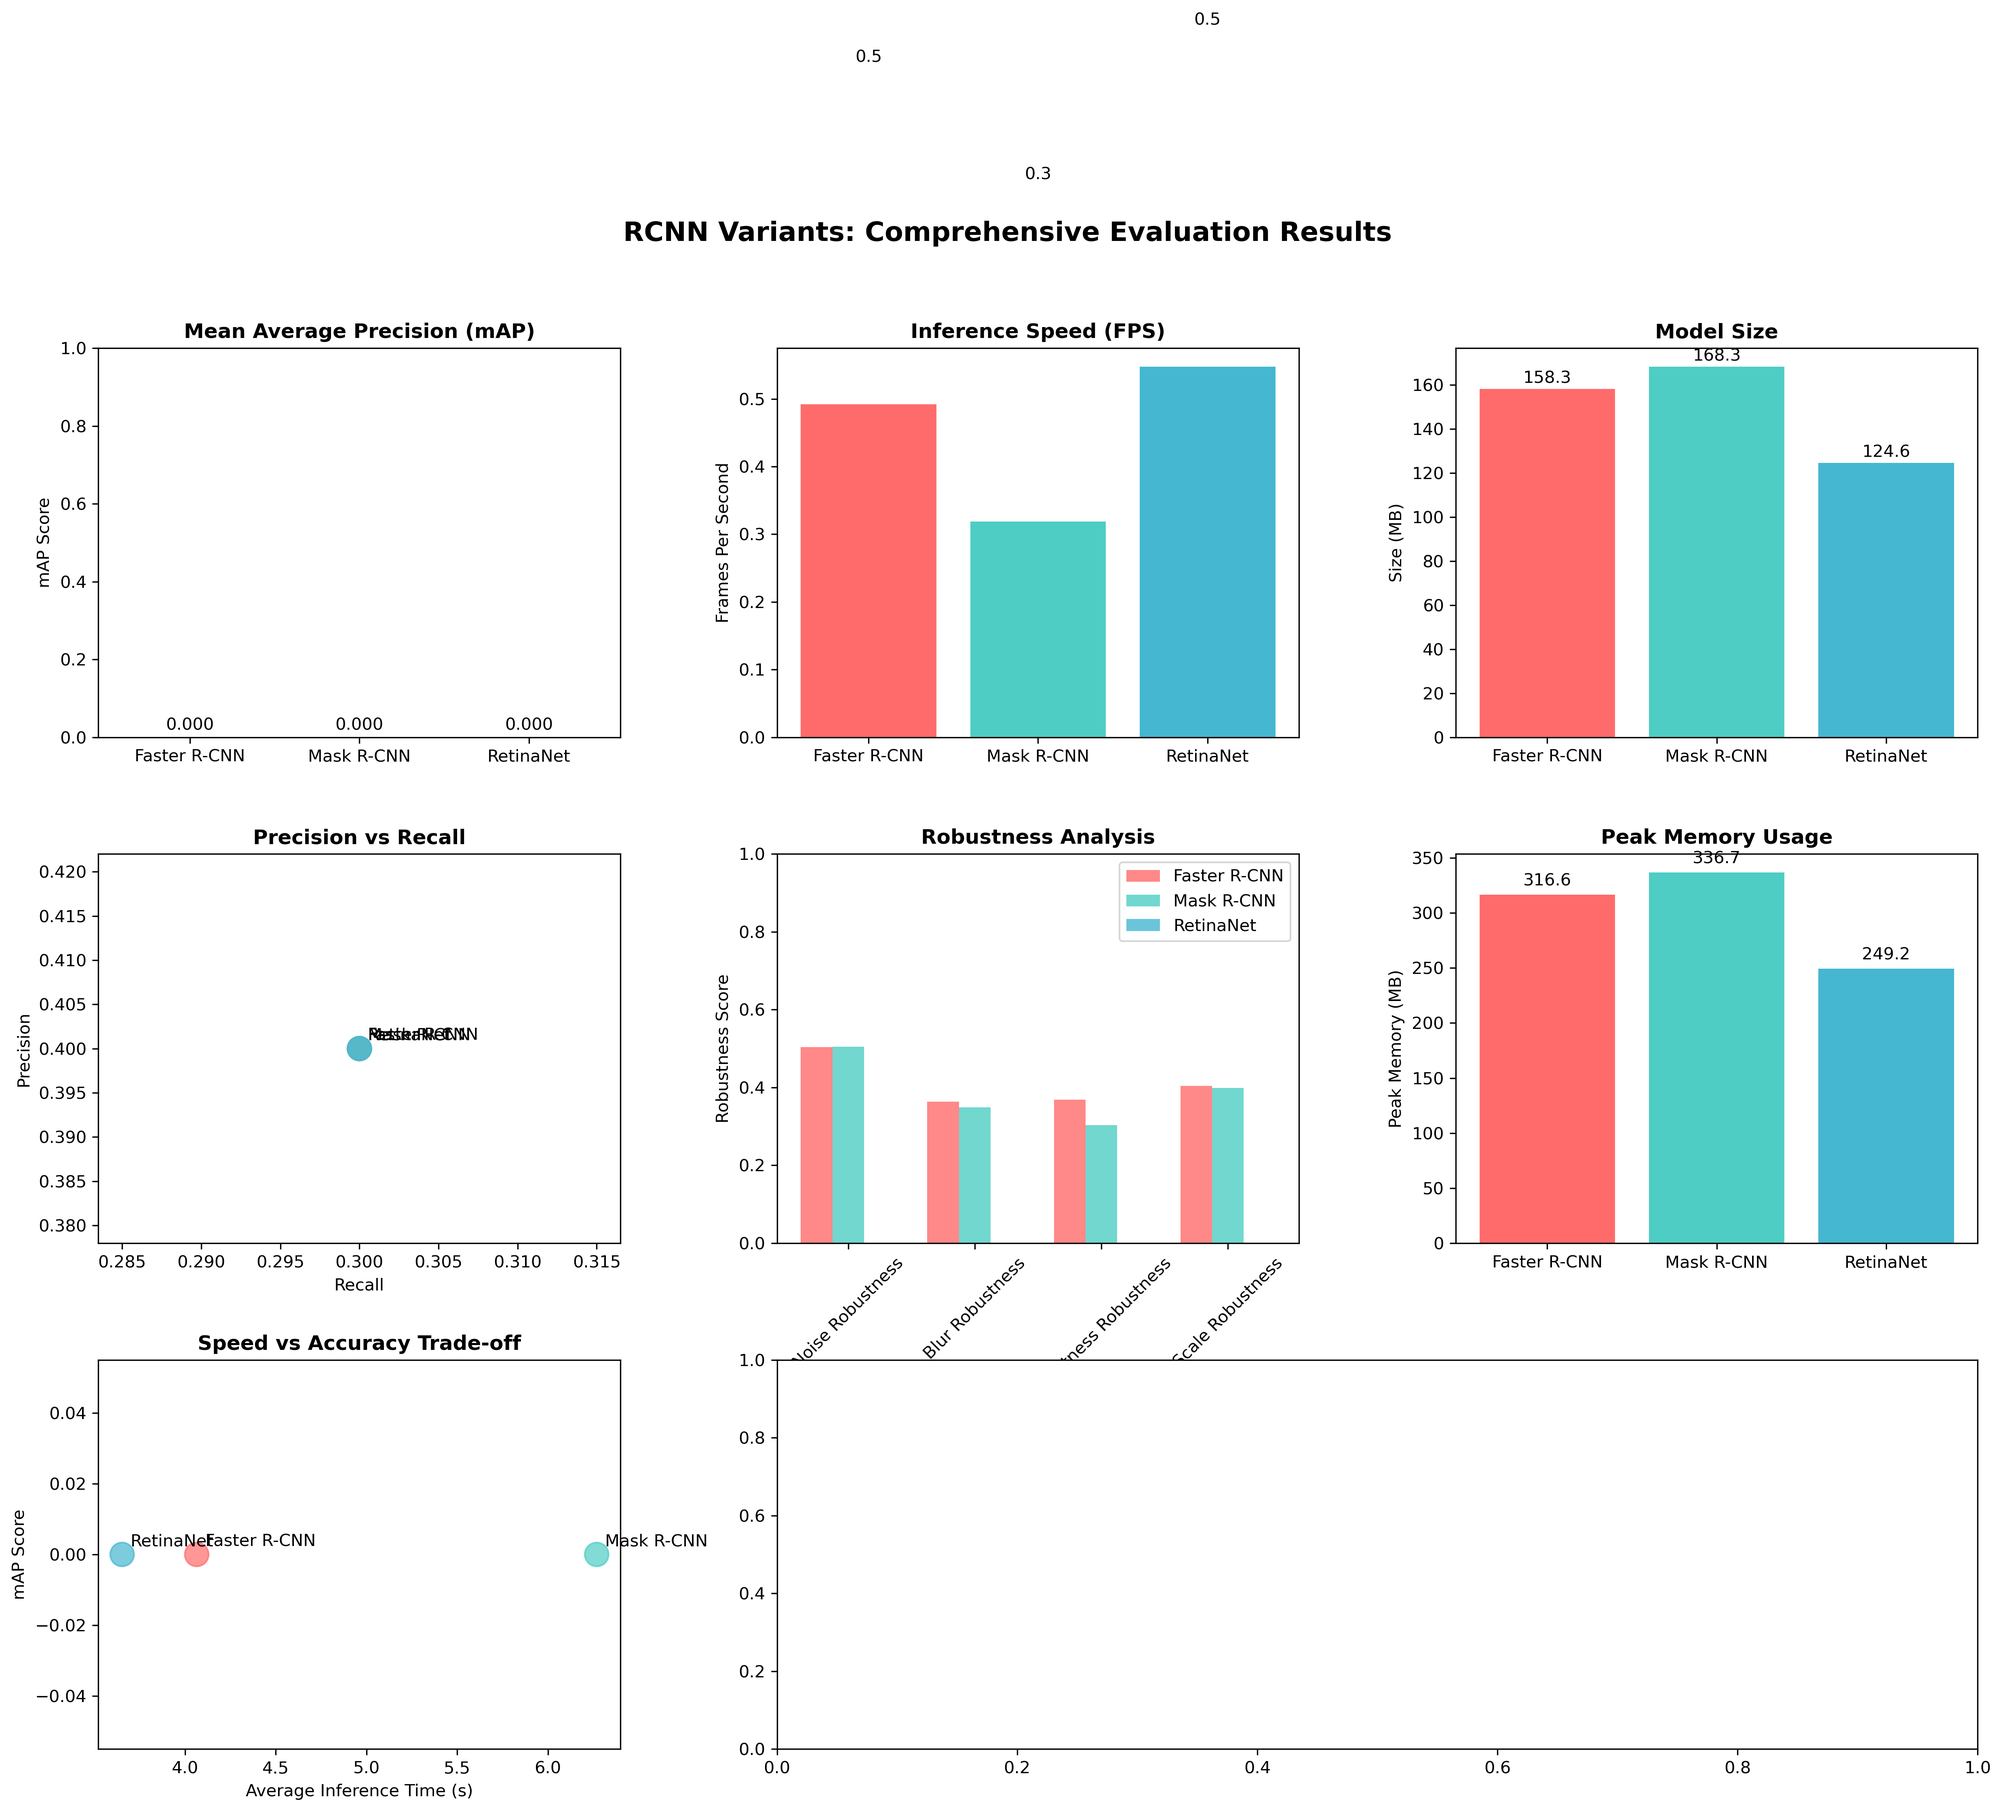
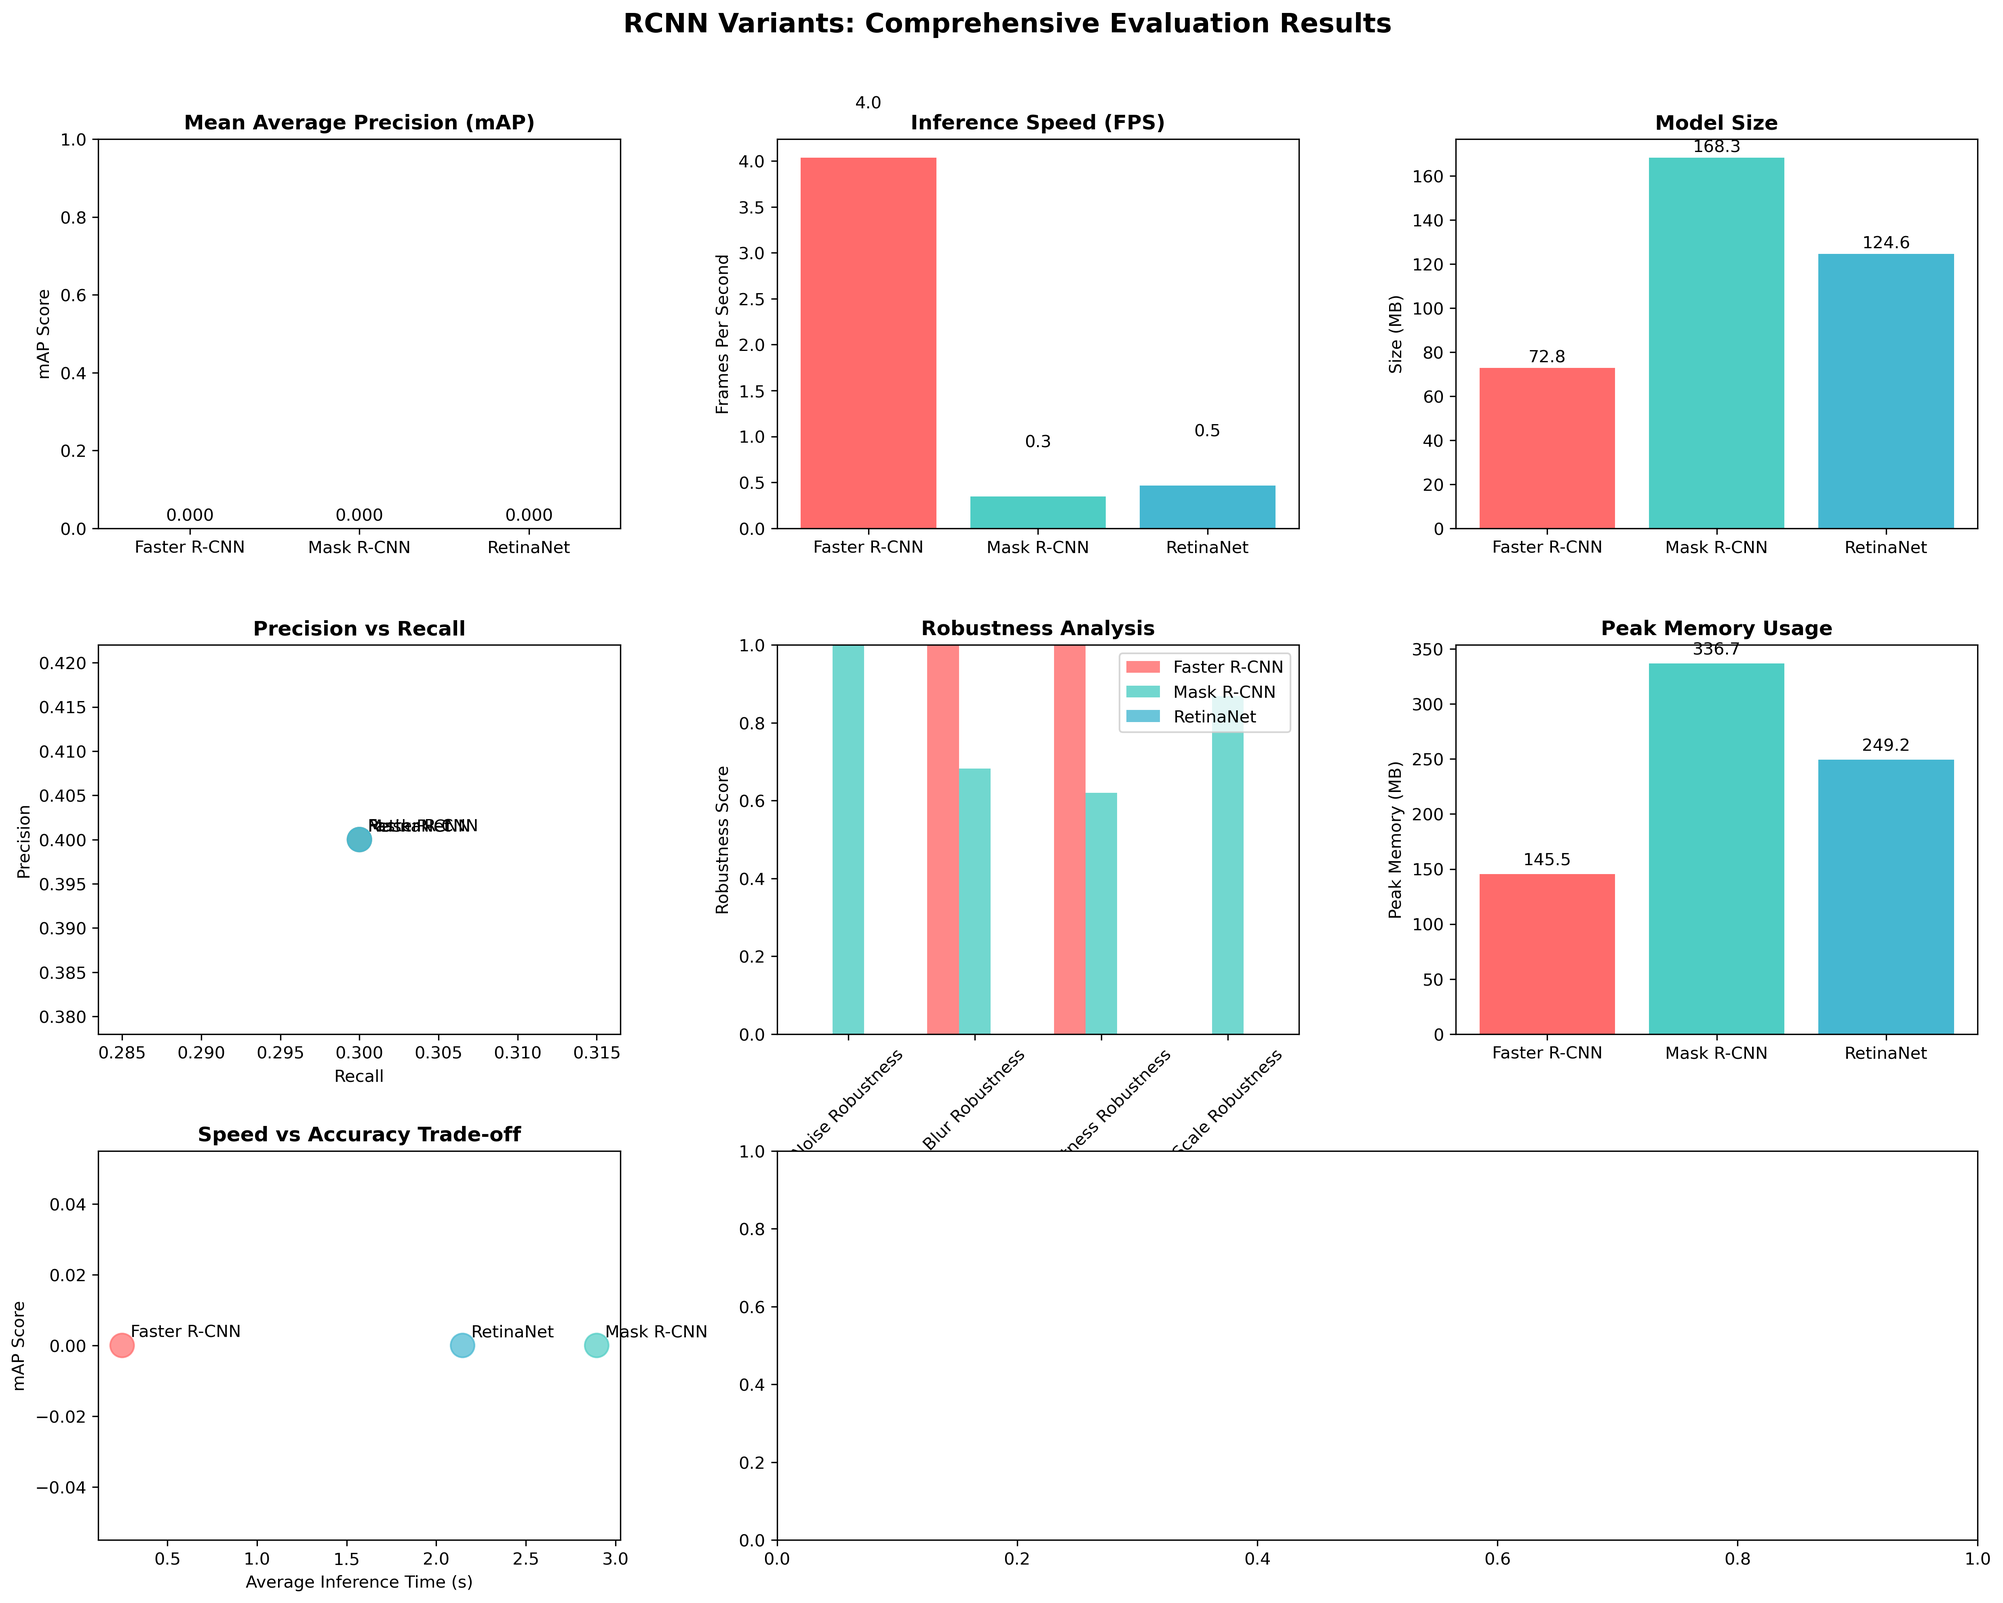
bug fixes

diff --git a/rcnn_framework.py b/rcnn_framework.py
@@ -4,7 +4,7 @@ import torch
 class RCNNComparator:
     def __init__(self, num_classes=21, device=None):
         """
-        Initializes RCNN models for comparison.
+        Initializes lightweight RCNN models for comparison.
         Args:
             num_classes (int): Number of classes for detection.
             device (str or torch.device): Device to load models on.
@@ -13,15 +13,15 @@ class RCNNComparator:
             device = torch.device("cuda" if torch.cuda.is_available() else "cpu")
         self.device = device
 
-        # Faster R-CNN
-        faster_rcnn = torchvision.models.detection.fasterrcnn_resnet50_fpn(weights="DEFAULT")
+        # Lightweight Faster R-CNN (MobileNet backbone)
+        faster_rcnn = torchvision.models.detection.fasterrcnn_mobilenet_v3_large_fpn(weights="DEFAULT")
         in_features = faster_rcnn.roi_heads.box_predictor.cls_score.in_features
         faster_rcnn.roi_heads.box_predictor = torchvision.models.detection.faster_rcnn.FastRCNNPredictor(
             in_features, num_classes
         )
         faster_rcnn = faster_rcnn.to(self.device)
 
-        # Mask R-CNN
+        # Lightweight Mask R-CNN (ResNet-50 backbone, as MobileNet is not available in torchvision)
         mask_rcnn = torchvision.models.detection.maskrcnn_resnet50_fpn(weights="DEFAULT")
         in_features_mask = mask_rcnn.roi_heads.box_predictor.cls_score.in_features
         mask_rcnn.roi_heads.box_predictor = torchvision.models.detection.faster_rcnn.FastRCNNPredictor(
@@ -34,7 +34,7 @@ class RCNNComparator:
         )
         mask_rcnn = mask_rcnn.to(self.device)
 
-        # RetinaNet (fixed)
+        # Lightweight RetinaNet (ResNet-50 backbone, as MobileNet is not available in torchvision)
         retinanet = torchvision.models.detection.retinanet_resnet50_fpn(weights="DEFAULT")
         in_features_retina = retinanet.backbone.out_channels
         num_anchors = retinanet.head.classification_head.num_anchors

diff --git a/optimization_experiments.py b/optimization_experiments.py
@@ -119,7 +119,8 @@ class OptimizationExperiments:
             # Add logic for other model types if needed
             raise NotImplementedError("Model copy not implemented for this model type.")
 
-        model_copy = model_copy.to(self.model.device)
+        device = next(self.model.parameters()).device
+        model_copy = model_copy.to(device)
         return model_copy
     
     def _mini_training_loop(self, model, optimizer, epochs=3, train_loader=None):
@@ -143,7 +144,7 @@ class OptimizationExperiments:
                 optimizer.zero_grad()
                 
                 # Forward pass (simplified loss calculation)
-                predictions = model(images)
+                predictions = model(images, targets)
                 loss = self._calculate_simplified_loss(predictions, targets)
                 
                 # Backward pass

diff --git a/rcnn_evaluator.py b/rcnn_evaluator.py
@@ -83,7 +83,7 @@ class ObjectDetectionEvaluator:
         if keep_indices.sum() == 0:
             return {'boxes': [], 'scores': [], 'labels': []}
         
-        filtered_boxes = torch.tensor(predictions.get('proposals', []))[:len(confidence_scores)][keep_indices]
+        filtered_boxes = torch.tensor(predictions.get('boxes', []))[:len(confidence_scores)][keep_indices]
         filtered_scores = confidence_scores[keep_indices]
         filtered_labels = predicted_classes[keep_indices]
         

diff --git a/main.py b/main.py
@@ -21,8 +21,8 @@ def run_comprehensive_evaluation():
     models = comparator.models
     
     # Create mock dataset
-    test_dataset = MockDataset(size=50)
-    test_loader = DataLoader(test_dataset, batch_size=2, shuffle=False)
+    test_dataset = MockDataset(size=8)
+    test_loader = DataLoader(test_dataset, batch_size=1, shuffle=False)
     
     # Initialize evaluator
     evaluator = ObjectDetectionEvaluator(models, dataset_name="PASCAL VOC")
